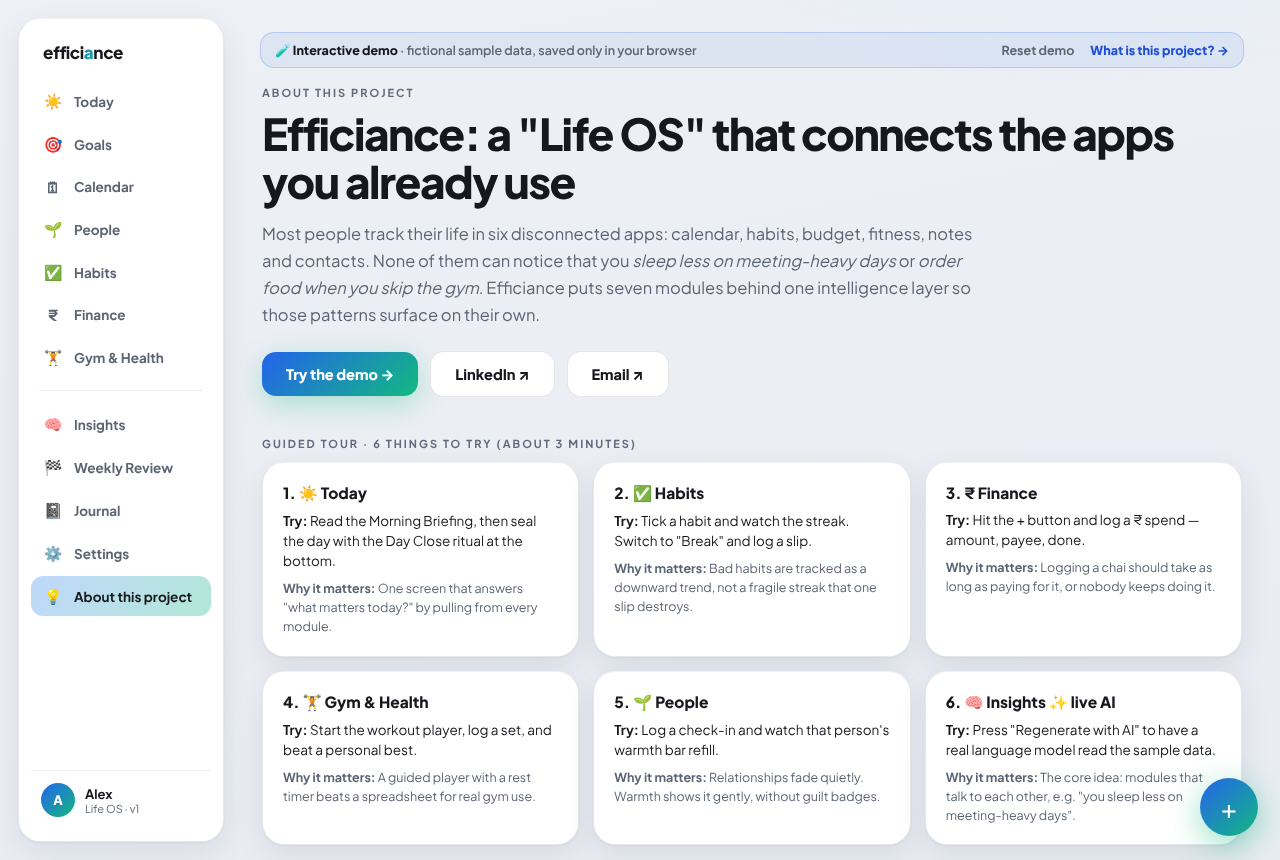
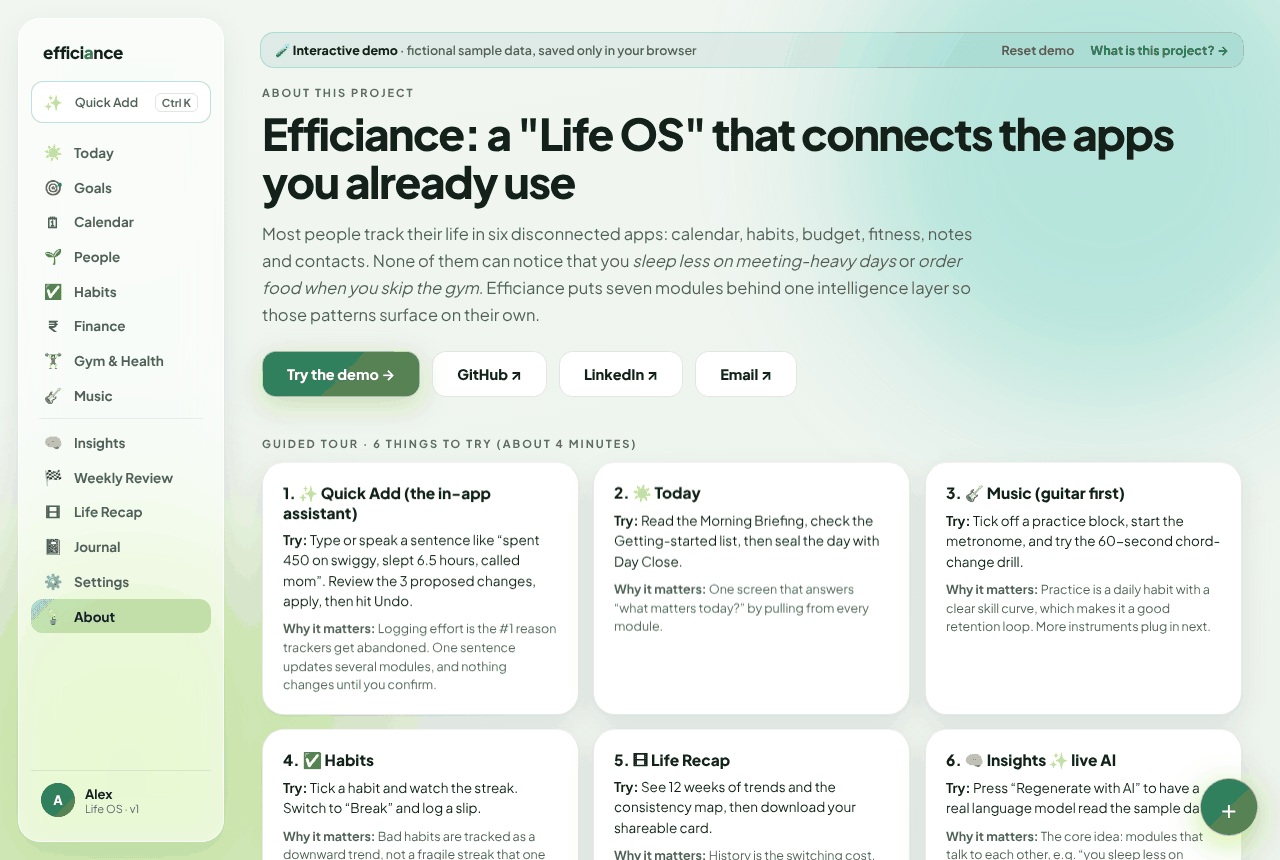
AI: self-healing Gemini model, /api/ai/ping, honest AI error messages; honest integration labels; MIT license; new README screenshots
Claude-Session: https://claude.ai/code/session_01BbW52KhXTaxvJNSBw295Mx

diff --git a/server/ai.js b/server/ai.js
@@ -1,32 +1,94 @@
 // Provider layer shared by every AI feature (insights, quick-add parsing).
 // Chosen by env (see .env.example):
-//   AI_PROVIDER=gemini  → Google Gemini REST API   (GEMINI_API_KEY, default model gemini-2.5-flash-lite)
+//   AI_PROVIDER=gemini  → Google Gemini REST API   (GEMINI_API_KEY; model auto-heals if retired)
 //   AI_PROVIDER=openai  → any OpenAI-compatible API (OpenAI, Groq, OpenRouter, local Ollama…)
 //                         (OPENAI_API_KEY, OPENAI_BASE_URL, OPENAI_MODEL)
 
 export const PROVIDER = process.env.AI_PROVIDER || (process.env.GEMINI_API_KEY ? 'gemini' : 'openai')
-export const MODEL = process.env.AI_MODEL || process.env.OPENAI_MODEL ||
-  (PROVIDER === 'gemini' ? 'gemini-2.5-flash-lite' : 'gpt-4o-mini')
+const PREFERRED = process.env.AI_MODEL || process.env.OPENAI_MODEL ||
+  (PROVIDER === 'gemini' ? 'gemini-flash-lite-latest' : 'gpt-4o-mini')
+const GEMINI_BASE = process.env.GEMINI_BASE_URL || 'https://generativelanguage.googleapis.com/v1beta'
 const OPENAI_BASE = process.env.OPENAI_BASE_URL || 'https://api.openai.com/v1'
 const isLocalBase = /^https?:\/\/(localhost|127\.0\.0\.1)/.test(OPENAI_BASE)
 
 const apiKey = () => (PROVIDER === 'gemini' ? process.env.GEMINI_API_KEY : process.env.OPENAI_API_KEY)
 export const keyLoaded = () => Boolean(apiKey()) || (PROVIDER === 'openai' && isLocalBase)
 
-async function viaGemini({ system, user, maxTokens, temperature, signal }) {
-  const res = await fetch(`https://generativelanguage.googleapis.com/v1beta/models/${encodeURIComponent(MODEL)}:generateContent`, {
+// Gemini retires models regularly (2.5 Flash-Lite included). So the model is self-healing:
+// try the preferred one; if the API says it is gone, ask the API which models exist and pick the best Flash-Lite.
+const state = { model: PREFERRED, listedAt: 0 }
+export const currentModel = () => state.model
+
+const apiError = (msg, status) => Object.assign(new Error(msg), { status })
+const scrub = (t) => String(t).replace(/key=[^&\s"]+/gi, 'key=…').slice(0, 200)
+
+async function listGeminiModels() {
+  const res = await fetch(`${GEMINI_BASE}/models?pageSize=200`, { headers: { 'x-goog-api-key': apiKey() } })
+  if (!res.ok) throw apiError(`Gemini list ${res.status}: ${scrub(await res.text())}`, res.status)
+  const data = await res.json()
+  return (data.models || [])
+    .filter((m) => (m.supportedGenerationMethods || []).includes('generateContent'))
+    .map((m) => String(m.name).replace(/^models\//, ''))
+}
+
+const EXCLUDE = /image|tts|audio|live|embedding|vision|robotics|computer|native|learnlm|gemma|imagen|veo|thinking|exp\b|-001$/i
+const version = (n) => Number((n.match(/gemini-(\d+(?:\.\d+)?)/) || [0, 0])[1])
+const better = (a, b) => // alias first, then newest version, then stable over preview
+  (/latest/.test(b) - /latest/.test(a)) || (version(b) - version(a)) || (/preview/.test(a) - /preview/.test(b))
+
+/** Best-first candidates: Flash-Lite models, then plain Flash models. */
+export function rankModels(names) {
+  const ok = [...new Set(names)].filter((n) => /^gemini/.test(n) && /flash/.test(n) && !EXCLUDE.test(n))
+  const lite = ok.filter((n) => /lite/.test(n)).sort(better)
+  const flash = ok.filter((n) => !/lite/.test(n)).sort(better)
+  return [...lite, ...flash]
+}
+
+async function callGemini(model, { system, user, maxTokens, temperature, signal }) {
+  const res = await fetch(`${GEMINI_BASE}/models/${encodeURIComponent(model)}:generateContent`, {
     method: 'POST',
     headers: { 'Content-Type': 'application/json', 'x-goog-api-key': apiKey() },
     signal,
     body: JSON.stringify({
       systemInstruction: { parts: [{ text: system }] },
       contents: [{ role: 'user', parts: [{ text: user }] }],
-      generationConfig: { responseMimeType: 'application/json', temperature, maxOutputTokens: maxTokens },
+      // generous headroom: newer "thinking" models spend output tokens before answering
+      generationConfig: { responseMimeType: 'application/json', temperature, maxOutputTokens: maxTokens * 3 + 512 },
     }),
   })
-  if (!res.ok) throw new Error(`Gemini ${res.status}: ${(await res.text()).slice(0, 200)}`)
+  if (!res.ok) throw apiError(`Gemini ${res.status} (${model}): ${scrub(await res.text())}`, res.status)
   const data = await res.json()
-  return data.candidates?.[0]?.content?.parts?.map((p) => p.text).join('') || ''
+  const cand = data.candidates?.[0]
+  const text = cand?.content?.parts?.map((p) => p.text || '').join('') || ''
+  if (!text) throw apiError(`Gemini empty output (${model}, finishReason=${cand?.finishReason || data.promptFeedback?.blockReason || 'none'})`, 502)
+  return text
+}
+
+const MODEL_GONE = new Set([400, 403, 404]) // "this model is unavailable to you": try another one
+
+async function viaGemini(args) {
+  const order = [state.model]
+  let lastErr
+  for (let i = 0; i < order.length; i++) {
+    try {
+      const text = await callGemini(order[i], args)
+      if (state.model !== order[i]) console.log(`AI model switched: ${state.model} -> ${order[i]}`)
+      state.model = order[i]
+      return text
+    } catch (err) {
+      lastErr = err
+      if (!MODEL_GONE.has(err.status)) throw err
+      console.error(`Gemini model "${order[i]}" unavailable (${err.status}); looking for a replacement`)
+      if (i === order.length - 1 && Date.now() - state.listedAt > 10 * 60 * 1000) {
+        state.listedAt = Date.now()
+        try {
+          const found = rankModels(await listGeminiModels()).filter((m) => !order.includes(m)).slice(0, 4)
+          order.push(...found)
+        } catch (listErr) { console.error('Could not list Gemini models:', listErr.message) }
+      }
+    }
+  }
+  throw lastErr
 }
 
 async function viaOpenAI({ system, user, maxTokens, temperature, signal }) {
@@ -37,7 +99,7 @@ async function viaOpenAI({ system, user, maxTokens, temperature, signal }) {
     headers,
     signal,
     body: JSON.stringify({
-      model: MODEL,
+      model: PREFERRED,
       max_tokens: maxTokens,
       temperature,
       messages: [{ role: 'system', content: system }, { role: 'user', content: user }],

diff --git a/src/components/QuickAdd.jsx b/src/components/QuickAdd.jsx
@@ -114,7 +114,8 @@ export default function QuickAdd() {
     instant: ['⚡ Understood instantly', C.greenDeep, 'rgba(var(--a2-rgb),0.12)'],
     ai: ['✨ Understood by AI', C.blue, 'rgba(var(--a1-rgb),0.10)'],
     none: ['🤔 Not sure', C.amber, 'rgba(245,158,11,0.12)'],
-  })[res.source]
+    down: ['⚠ AI unavailable', C.amber, 'rgba(245,158,11,0.12)'],
+  })[res.source === 'none' && (res.ai === 'down' || res.ai === 'offline') ? 'down' : res.source]
 
   return (
     <>
@@ -188,15 +189,21 @@ export default function QuickAdd() {
                   </div>
                 ) : (
                   <div style={{ background: 'rgba(245,158,11,0.1)', border: '1px solid rgba(245,158,11,0.3)', borderRadius: 14, padding: 14, fontSize: 13.5, lineHeight: 1.55 }}>
-                    I couldn’t turn that into anything I can log. I can record spends, habits, sleep, water, mood, journal lines, people check-ins, guitar practice and workouts. Try one of the examples.
+                    {res.ai === 'down' && <>The AI helper couldn’t be reached just now, so I could only use instant parsing. Instant parsing handles sentences like “spent 450 on swiggy” or “slept 7 hours”. Try again in a minute for anything more free-form.</>}
+                    {res.ai === 'offline' && <>You appear to be offline, so only instant parsing is available. Try “spent 450 on swiggy” or “slept 7 hours”.</>}
+                    {res.ai === 'limited' && <>{res.note || 'The AI helper is at its demo limit for now.'} Instant parsing still works for sentences like “spent 450 on swiggy”.</>}
+                    {res.ai === 'no_key' && <>The AI helper isn’t configured on this server. Instant parsing still works for sentences like “spent 450 on swiggy”.</>}
+                    {res.ai === 'empty' && <>{res.note || 'I couldn’t find anything to log in that.'} I can record spends, habits, sleep, water, mood, journal lines, people check-ins, guitar practice and workouts.</>}
+                    {!['down', 'offline', 'limited', 'no_key', 'empty'].includes(res.ai) && <>I couldn’t turn that into anything I can log. I can record spends, habits, sleep, water, mood, journal lines, people check-ins, guitar practice and workouts. Try one of the examples.</>}
                   </div>
                 )}
 
                 {res.unmatched.length > 0 && res.actions.length > 0 && (
                   <div style={{ marginTop: 10, fontSize: 12.5, color: C.sub }}>Skipped (not understood): {res.unmatched.map((u) => `“${u}”`).join(', ')}</div>
                 )}
-                {res.note && <div style={{ marginTop: 10, fontSize: 12.5, color: C.sub }}>{res.note}</div>}
-                {res.offline && <div style={{ marginTop: 10, fontSize: 12.5, color: C.sub }}>Offline: only instant parsing is available.</div>}
+                {res.actions.length > 0 && res.ai === 'down' && <div style={{ marginTop: 10, fontSize: 12.5, color: C.sub }}>The AI helper is unavailable right now, so only instant parsing was used.</div>}
+                {res.actions.length > 0 && res.ai === 'limited' && res.note && <div style={{ marginTop: 10, fontSize: 12.5, color: C.sub }}>{res.note}</div>}
+                {res.actions.length > 0 && res.offline && <div style={{ marginTop: 10, fontSize: 12.5, color: C.sub }}>Offline: only instant parsing is available.</div>}
 
                 <div style={{ display: 'flex', gap: 10, marginTop: 16, justifyContent: 'flex-end' }}>
                   <button onClick={() => setPhase('idle')} style={{ background: 'transparent', border: 'none', color: C.sub, fontWeight: 700, fontSize: 14, padding: '10px 14px' }}>Edit</button>

diff --git a/src/pages/Settings.jsx b/src/pages/Settings.jsx
@@ -33,7 +33,8 @@ export default function Settings() {
 
       <InstallCard />
 
-      <div style={{ ...label, color: C.sub, marginBottom: 12 }}>Integrations</div>
+      <div style={{ ...label, color: C.sub, marginBottom: 6 }}>Integrations · previews only</div>
+      <div style={{ color: C.sub, fontSize: 12.5, marginBottom: 12 }}>These show how connections will look using sample data. Live connections are planned.</div>
       <div style={{ display: 'grid', gridTemplateColumns: 'repeat(auto-fill,minmax(280px,1fr))', gap: 12, marginBottom: 14 }}>
         {Object.keys(s.integrations).map((k) => {
           const on = s.integrations[k]
@@ -43,11 +44,11 @@ export default function Settings() {
                 <span style={{ width: 9, height: 9, borderRadius: '50%', background: on ? C.greenDeep : 'rgba(148,163,184,0.4)', flex: 'none' }} />
                 <div>
                   <div style={{ fontWeight: 700, fontSize: 13.5 }}>{k}</div>
-                  <div style={{ color: C.muted, fontSize: 11.5, fontWeight: 600 }}>{on ? 'Connected · demo mode' : 'Connect'}</div>
+                  <div style={{ color: C.muted, fontSize: 11.5, fontWeight: 600 }}>{on ? 'Preview · sample data' : 'Planned'}</div>
                 </div>
               </div>
               <button onClick={() => toggleIntegration(k)} className="text-hover-dark bd-hover" style={{ background: 'rgba(0,0,0,0.045)', border: '1px solid rgba(0,0,0,0.09)', color: C.sub, padding: '7px 13px', borderRadius: 10, fontWeight: 700, fontSize: 12, flex: 'none' }}>
-                {on ? 'Disconnect' : 'Connect'}
+                {on ? 'Turn off' : 'Preview'}
               </button>
             </div>
           )
@@ -89,7 +90,7 @@ export default function Settings() {
         <div style={smallCard}>
           <div>
             <div style={{ fontWeight: 700, fontSize: 13.5 }}>Notifications</div>
-            <div style={{ color: C.muted, fontSize: 11.5, fontWeight: 600 }}>Briefing 7:30 AM · Day Close 9 PM</div>
+            <div style={{ color: C.muted, fontSize: 11.5, fontWeight: 600 }}>Preview · reminders arrive with accounts</div>
           </div>
           <span style={{ fontSize: 17 }}>🔔</span>
         </div>

diff --git a/src/data/actions.js b/src/data/actions.js
@@ -231,7 +231,8 @@ export function localParse(text) {
  */
 export async function understand(text) {
   const local = localParse(text)
-  if (local.actions.length && !local.unmatched.length) return { actions: local.actions, source: 'instant', unmatched: [] }
+  if (local.actions.length && !local.unmatched.length) return { actions: local.actions, source: 'instant', unmatched: [], ai: 'skipped' }
+  const fallback = { actions: local.actions, source: local.actions.length ? 'instant' : 'none', unmatched: local.unmatched }
   try {
     const ctl = new AbortController()
     const t = setTimeout(() => ctl.abort(), 13000)
@@ -239,11 +240,15 @@ export async function understand(text) {
     clearTimeout(t)
     const data = await res.json().catch(() => ({}))
     if (res.ok && Array.isArray(data.actions) && data.actions.length) {
-      return { actions: sanitizeActions(data.actions), source: 'ai', reply: data.reply, unmatched: [] }
+      return { actions: sanitizeActions(data.actions), source: 'ai', reply: data.reply, unmatched: [], ai: 'ok' }
     }
-    return { actions: local.actions, source: local.actions.length ? 'instant' : 'none', unmatched: local.unmatched, note: res.status === 429 ? data.message : data.reply }
+    // ai: ok = the AI answered but found nothing loggable | limited = quota/rate limit | down = AI service failed or timed out | no_key
+    if (res.ok) return { ...fallback, ai: 'empty', note: data.reply }
+    if (res.status === 429) return { ...fallback, ai: 'limited', note: data.message }
+    if (res.status === 503 && data.error === 'no_key') return { ...fallback, ai: 'no_key' }
+    return { ...fallback, ai: 'down' }
   } catch {
-    return { actions: local.actions, source: local.actions.length ? 'instant' : 'none', unmatched: local.unmatched, offline: true }
+    return { ...fallback, ai: 'offline', offline: true }
   }
 }
 

diff --git a/server/parse.js b/server/parse.js
@@ -1,6 +1,6 @@
 import { Router } from 'express'
 import { parseRateLimit } from './limits.js'
-import { completeJson, keyLoaded } from './ai.js'
+import { completeJson, keyLoaded, currentModel, PROVIDER } from './ai.js'
 import { sanitizeActions, HABIT_IDS, BREAK_IDS, PEOPLE, CATEGORIES, MOODS } from '../shared/schema.js'
 
 // Quick Add: turns a natural sentence ("spent 450 on swiggy, slept 6.5h, called mom") into a
@@ -38,7 +38,7 @@ router.post('/parse', parseRateLimit, async (req, res) => {
     const out = await completeJson({
       system: SYSTEM_PROMPT,
       user: `<text>\n${text}\n</text>`,
-      maxTokens: 600,
+      maxTokens: 500,
       temperature: 0.1,
       timeoutMs: 12000,
     })
@@ -47,6 +47,17 @@ router.post('/parse', parseRateLimit, async (req, res) => {
     const aborted = err.name === 'AbortError'
     console.error('Quick Add parse failed:', aborted ? 'timeout' : err.message)
     res.status(aborted ? 504 : 502).json({ error: aborted ? 'timeout' : 'upstream' })
+  }
+})
+
+// Health check for the AI connection: makes one tiny model call and reports what happened (no secrets).
+router.get('/ping', parseRateLimit, async (_req, res) => {
+  if (!keyLoaded()) return res.json({ ok: false, provider: PROVIDER, error: 'no key configured' })
+  try {
+    await completeJson({ system: 'Return exactly {"ok":true} as JSON.', user: 'ping', maxTokens: 20, temperature: 0, timeoutMs: 10000 })
+    res.json({ ok: true, provider: PROVIDER, model: currentModel() })
+  } catch (err) {
+    res.json({ ok: false, provider: PROVIDER, model: currentModel(), error: String(err.message).replace(/key=[^&\s"]+/gi, 'key=…').slice(0, 220) })
   }
 })
 

diff --git a/src/pages/Gym.jsx b/src/pages/Gym.jsx
@@ -268,10 +268,10 @@ export default function Gym() {
 
             <div style={{ ...card, boxShadow: 'none', borderRadius: 20, padding: 20 }}>
               <div style={{ fontWeight: 700, fontSize: 14.5, marginBottom: 4 }}>Sync sleep automatically</div>
-              <div style={{ color: C.muted, fontSize: 12.5, marginBottom: 12 }}>Google Fit connected · demo mode</div>
+              <div style={{ color: C.muted, fontSize: 12.5, marginBottom: 12 }}>Planned: Google Health / Apple Health sync. For now, log sleep with Quick Add.</div>
               <div style={{ display: 'flex', gap: 8 }}>
-                <span style={{ background: 'rgba(var(--a2-rgb),0.12)', border: '1px solid rgba(var(--a2-rgb),0.4)', borderRadius: 999, padding: '6px 13px', fontSize: 12, fontWeight: 700, color: C.greenDeep }}>❤ Google Fit ✓</span>
-                <span style={{ background: 'rgba(0,0,0,0.04)', border: '1px solid rgba(0,0,0,0.09)', borderRadius: 999, padding: '6px 13px', fontSize: 12, fontWeight: 700, color: C.sub }}>🍎 Apple Health</span>
+                <span style={{ background: 'rgba(var(--a2-rgb),0.12)', border: '1px solid rgba(var(--a2-rgb),0.4)', borderRadius: 999, padding: '6px 13px', fontSize: 12, fontWeight: 700, color: C.greenDeep }}>❤ Google Health (planned)</span>
+                <span style={{ background: 'rgba(0,0,0,0.04)', border: '1px solid rgba(0,0,0,0.09)', borderRadius: 999, padding: '6px 13px', fontSize: 12, fontWeight: 700, color: C.sub }}>🍎 Apple Health (planned)</span>
               </div>
             </div>
           </div>

diff --git a/server/insights.js b/server/insights.js
@@ -1,6 +1,6 @@
 import { Router } from 'express'
 import { aiRateLimit } from './limits.js'
-import { completeJson, keyLoaded, MODEL, PROVIDER } from './ai.js'
+import { completeJson, keyLoaded, currentModel, PROVIDER } from './ai.js'
 
 // AI Insights: turns a compact summary of the user's tracked data into cross-module
 // insight cards. The frontend ships a saved set, so a slow/failed/limited call never breaks the app.
@@ -39,7 +39,7 @@ function parseInsights(parsed) {
 }
 
 router.get('/status', (_req, res) => {
-  res.json({ keyLoaded: keyLoaded(), provider: PROVIDER, model: MODEL })
+  res.json({ keyLoaded: keyLoaded(), provider: PROVIDER, model: currentModel() })
 })
 
 router.post('/insights', aiRateLimit, async (req, res) => {
@@ -52,7 +52,7 @@ router.post('/insights', aiRateLimit, async (req, res) => {
 
   try {
     const raw = await completeJson({ system: SYSTEM_PROMPT, user: userPrompt(summary), maxTokens: 1500, temperature: 0.7 })
-    res.json({ insights: parseInsights(raw), model: MODEL, generatedAt: new Date().toISOString() })
+    res.json({ insights: parseInsights(raw), model: currentModel(), generatedAt: new Date().toISOString() })
   } catch (err) {
     const aborted = err.name === 'AbortError'
     console.error('Insights generation failed:', aborted ? 'timeout' : err.message)

diff --git a/src/pages/Finance.jsx b/src/pages/Finance.jsx
@@ -82,11 +82,11 @@ export default function Finance() {
                   width: '100%', background: 'rgba(0,0,0,0.04)', border: '1.5px dashed rgba(0,0,0,0.13)',
                   color: C.sub, padding: 18, borderRadius: 14, fontWeight: 700, fontSize: 13,
                 }}>
-                  ⬆ Upload bank statement CSV / PDF
+                  ⬆ Try a sample statement import (demo)
                 </button>
               ) : (
                 <div style={{ background: 'rgba(var(--a2-rgb),0.08)', border: '1px solid rgba(var(--a2-rgb),0.35)', borderRadius: 14, padding: 16, animation: 'rise 0.2s ease-out' }}>
-                  <div style={{ fontWeight: 800, fontSize: 13.5, color: C.greenDeep, marginBottom: 8 }}>statement_jun.csv parsed ✓</div>
+                  <div style={{ fontWeight: 800, fontSize: 13.5, color: C.greenDeep, marginBottom: 8 }}>Sample statement parsed ✓ (demo output; real import is planned)</div>
                   <div style={{ fontSize: 12.5, color: C.sub, lineHeight: 1.7 }}>
                     142 transactions found · 131 auto-categorized<br />🍔 Food ₹6,120 · 🛒 Groceries ₹4,890 · 🛺 Transport ₹1,980
                   </div>

diff --git a/src/pages/Landing.jsx b/src/pages/Landing.jsx
@@ -116,7 +116,8 @@ export default function Landing() {
         </div>
 
         <div style={{ textAlign: 'center', marginTop: 80 }}>
-          <div style={{ ...label, marginBottom: 18 }}>Works with</div>
+          <div style={{ ...label, marginBottom: 8 }}>Planned integrations</div>
+          <div style={{ color: C.sub, fontSize: 13, marginBottom: 18 }}>The demo runs on sample data. Live connections are on the roadmap.</div>
           <div style={{ display: 'flex', gap: 12, justifyContent: 'center', flexWrap: 'wrap' }}>
             {worksWith.map((w) => (
               <div key={w.name} style={{ background: 'rgba(0,0,0,0.038)', border: '1px solid rgba(0,0,0,0.07)', borderRadius: 12, padding: '10px 18px', color: C.sub, fontSize: 13, fontWeight: 600 }}>

diff --git a/src/pages/Insights.jsx b/src/pages/Insights.jsx
@@ -34,7 +34,9 @@ export default function Insights() {
           ? 'Add an AI key to .env to generate live — showing saved insights for now.'
           : res.status === 429
             ? data.message
-            : 'Live generation is slow right now — showing your saved insights.')
+            : data.error === 'upstream'
+              ? 'The AI service is unavailable right now — showing your saved insights.'
+              : 'Live generation is slow right now — showing your saved insights.')
       }
     } catch {
       setNote('Live generation unavailable — showing your saved insights.')

diff --git a/README.md b/README.md
@@ -7,9 +7,11 @@ Everything you track stays in your browser (localStorage); a small Express serve
 
 **Live demo:** _add your Render URL here after deploying_ · [Source](https://github.com/abhyank-singh/efficiance) · **Built by** [Abhyank Singh](https://www.linkedin.com/in/abhyank-singh/)
 
-| Today | Insights (live AI) | Finance |
+| Today | Quick Add | Life Recap |
 |---|---|---|
-| ![Today](docs/screenshots/today.png) | ![Insights](docs/screenshots/insights.png) | ![Finance](docs/screenshots/finance.png) |
+| ![Today](docs/screenshots/today.png) | ![Quick Add](docs/screenshots/quick-add.png) | ![Life Recap](docs/screenshots/recap.png) |
+| **Music** | **Insights (live AI)** | **Mobile** |
+| ![Music](docs/screenshots/music.png) | ![Insights](docs/screenshots/insights.png) | ![Mobile](docs/screenshots/mobile-today.png) |
 
 ## Two builds, one codebase
 
@@ -56,6 +58,17 @@ npm run demo             # http://localhost:3001 in demo mode
 
 Without a key the app uses its saved insights; nothing breaks.
 
+## Honest scope
+
+This is a portfolio prototype. Most modules show sample data, the Fitbit / Google Health / Apple Health / bank / UPI
+integrations are **planned previews**, and Google Calendar sync only works in the personal build. Quick Add, Music,
+the Recap and the AI insights are real and working.
+
+## Troubleshooting the AI
+
+Open `/api/ai/ping` on your deployment. It makes one tiny model call and reports the model in use or the exact error.
+Gemini retires models periodically; the server auto-switches to an available Flash-Lite model when that happens.
+
 ## Extending it
 
 See [EXTENDING.md](EXTENDING.md): re-skin the palette, add modules, instruments and Quick Add actions.
@@ -68,3 +81,7 @@ See [DEPLOY_GUIDE.md](DEPLOY_GUIDE.md).
 
 Single container: Express (Node 22) serves the built React SPA and the API (`/api/ai/insights`, `/api/google/*`, `/api/health`).
 Product spec: [spec.md](spec.md).
+
+## License
+
+MIT, see [LICENSE](LICENSE).
